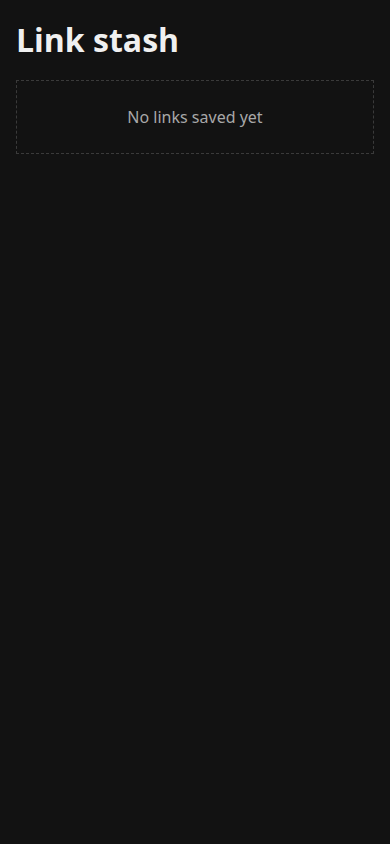
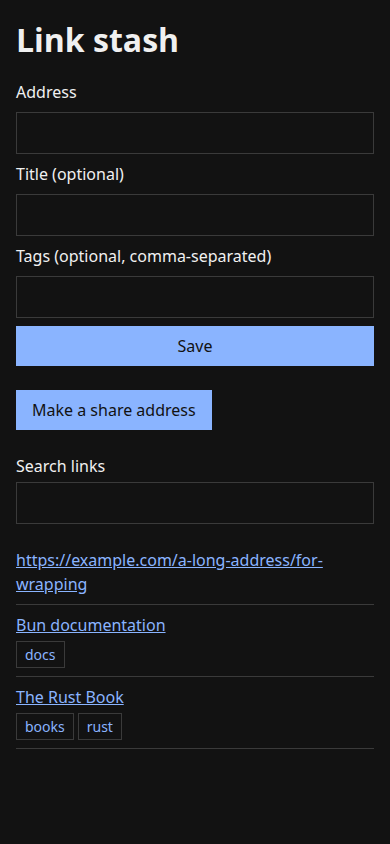
feat: share the list by a read-only link (#6) (#14)
A share control on the owner page makes a random-token path under /s/. The shared page lists links with tags and search and has no form. Methods other than GET under /s/ are refused, an unknown token answers 404, and making a new address replaces the old one.

diff --git a/src/app.ts b/src/app.ts
@@ -1,17 +1,37 @@
 import type {Database} from 'bun:sqlite';
 import {health} from './health';
-import {addLink, findSavedLink, listLinks, type Link} from './storage';
+import {addLink, currentShareToken, findSavedLink, listLinks, makeShareToken, type Link} from './storage';
 import {parseNewLink} from './validate';
 
 const publicDir = new URL('../public/', import.meta.url);
 
 const json = (body: unknown, status = 200): Response => Response.json(body, {status});
 
+const sharePath = (token: string): string => `/s/${token}`;
+
+const queryLinks = (db: Database, params: URLSearchParams): Link[] => {
+  const tag = params.get('tag')?.trim().toLowerCase();
+  const text = params.get('q')?.trim().toLowerCase();
+  return listLinks(db, tag || undefined, text || undefined);
+};
+
+// A share address is a capability: the token must never reach another site, and no method but GET is served.
+async function handleShared(req: Request, db: Database, rest: string[], params: URLSearchParams): Promise<Response> {
+  const [token, ...tail] = rest;
+  if (req.method !== 'GET') return json({error: 'This shared list is read-only'}, 405);
+  if (!token || token !== currentShareToken(db)) return json({error: 'not found'}, 404);
+  const headers = {'referrer-policy': 'no-referrer', 'cache-control': 'no-store'};
+  if (tail.length === 0) return new Response(Bun.file(new URL('shared.html', publicDir)), {headers});
+  if (tail.length === 1 && tail[0] === 'links') return Response.json({links: queryLinks(db, params)}, {headers});
+  return json({error: 'not found'}, 404);
+}
+
 const duplicateMessage = (link: Link): string =>
   `Already saved: ${link.title || link.url}, on ${link.created_at.slice(0, 10)}`;
 
 export async function handle(req: Request, db: Database): Promise<Response> {
-  const {pathname} = new URL(req.url);
+  const {pathname, searchParams} = new URL(req.url);
+  if (pathname.startsWith('/s/')) return handleShared(req, db, pathname.slice(3).split('/'), searchParams);
   if (pathname === '/api/links' && req.method === 'POST') {
     const parsed = parseNewLink(await req.json().catch(() => null));
     if (!parsed.ok) return json({field: 'url', error: parsed.error}, 400);
@@ -19,13 +39,14 @@ export async function handle(req: Request, db: Database): Promise<Response> {
     if (saved) return json({field: 'url', error: duplicateMessage(saved), link: saved}, 409);
     return json(addLink(db, parsed.link.url, parsed.link.title, parsed.link.tags), 201);
   }
+  if (pathname === '/api/share' && req.method === 'POST') return json({path: sharePath(makeShareToken(db))}, 201);
+  if (pathname === '/api/share' && req.method === 'POST') return json({path: sharePath(makeShareToken(db))}, 201);
   if (req.method !== 'GET') return json({error: 'method not allowed'}, 405);
   if (pathname === '/api/health') return json(health());
-  if (pathname === '/api/links') {
-    const params = new URL(req.url).searchParams;
-    const tag = params.get('tag')?.trim().toLowerCase();
-    const text = params.get('q')?.trim().toLowerCase();
-    return json({links: listLinks(db, tag || undefined, text || undefined)});
+  if (pathname === '/api/links') return json({links: queryLinks(db, searchParams)});
+  if (pathname === '/api/share') {
+    const token = currentShareToken(db);
+    return json({path: token ? sharePath(token) : null});
   }
   if (pathname.startsWith('/api/')) return json({error: 'not found'}, 404);
 

diff --git a/src/app.test.ts b/src/app.test.ts
@@ -42,7 +42,7 @@ test('a link saved with no title is listed by its address', async () => {
   const db = openDatabase(':memory:');
   await post(db, JSON.stringify({url: 'https://a.test'}));
   expect(await (await get('/api/links', 'GET', db)).text()).toContain('"title":""');
-  const html = await (await get('/app.js')).text();
+  const html = await (await get('/list.js')).text();
   expect(html).toContain('link.title || link.url');
 });
 
@@ -163,4 +163,60 @@ test('an empty search returns every link', async () => {
   const urls = await searchFixture();
   expect(await urls('?q=')).toHaveLength(3);
   expect(await urls('?q=%20')).toHaveLength(3);
+});
+
+const makeShare = async (db: Database) =>
+  ((await (await handle(new Request('http://test/api/share', {method: 'POST'}), db)).json()) as {path: string}).path;
+
+test('a share token gives the list through GET', async () => {
+  const db = openDatabase(':memory:');
+  await post(db, JSON.stringify({url: 'https://a.test', title: 'Rust Handbook', tags: 'books'}));
+  await post(db, JSON.stringify({url: 'https://b.test', title: 'Cooking'}));
+  const path = await makeShare(db);
+  expect(path).toMatch(/^\/s\/[A-Za-z0-9_-]{43}$/);
+  const page = await get(path, 'GET', db);
+  expect(page.status).toBe(200);
+  const html = await page.text();
+  expect(html).not.toContain('<form');
+  expect(page.headers.get('referrer-policy')).toBe('no-referrer');
+  const all = (await (await get(`${path}/links`, 'GET', db)).json()) as {links: {url: string}[]};
+  expect(all.links.map((l) => l.url)).toEqual(['https://b.test', 'https://a.test']);
+  const found = (await (await get(`${path}/links?q=rust&tag=books`, 'GET', db)).json()) as {links: {url: string}[]};
+  expect(found.links.map((l) => l.url)).toEqual(['https://a.test']);
+  expect((await get(`${path}/other`, 'GET', db)).status).toBe(404);
+});
+
+test('a POST under a share address is refused and stores nothing', async () => {
+  const db = openDatabase(':memory:');
+  const path = await makeShare(db);
+  const body = JSON.stringify({url: 'https://a.test'});
+  for (const method of ['POST', 'PUT', 'PATCH', 'DELETE']) {
+    for (const target of [path, `${path}/links`, `${path}/api/links`]) {
+      const res = await handle(new Request(`http://test${target}`, {method, body}), db);
+      expect(res.status).toBe(405);
+    }
+  }
+  expect(countLinks(db)).toBe(0);
+  expect(await makeShare(db)).not.toBe(path);
+});
+
+test('an unknown share token answers 404', async () => {
+  const db = openDatabase(':memory:');
+  expect((await get('/s/nope', 'GET', db)).status).toBe(404);
+  expect((await get('/s/nope/links', 'GET', db)).status).toBe(404);
+  expect((await get('/s/', 'GET', db)).status).toBe(404);
+  await makeShare(db);
+  expect((await get('/s/nope', 'GET', db)).status).toBe(404);
+});
+
+test('making a new share address stops the old one', async () => {
+  const db = openDatabase(':memory:');
+  expect(await (await get('/api/share', 'GET', db)).json()).toEqual({path: null});
+  const first = await makeShare(db);
+  expect(await (await get('/api/share', 'GET', db)).json()).toEqual({path: first});
+  const second = await makeShare(db);
+  expect(second).not.toBe(first);
+  expect((await get(first, 'GET', db)).status).toBe(404);
+  expect((await get(`${first}/links`, 'GET', db)).status).toBe(404);
+  expect((await get(second, 'GET', db)).status).toBe(200);
 });

diff --git a/public/app.js b/public/app.js
@@ -1,3 +1,5 @@
+import {renderLink} from '/list.js';
+
 const form = document.getElementById('save-form');
 const urlInput = document.getElementById('url');
 const titleInput = document.getElementById('title');
@@ -14,31 +16,8 @@ const searchInput = document.getElementById('search');
 let activeTag = '';
 let activeText = '';
 
-function render(link) {
-  const item = document.createElement('li');
-  const a = document.createElement('a');
-  a.href = link.url;
-  a.textContent = link.title || link.url;
-  a.rel = 'noopener noreferrer';
-  item.append(a);
-  if (link.tags.length > 0) {
-    const tags = document.createElement('span');
-    tags.className = 'tags';
-    for (const tag of link.tags) {
-      const chip = document.createElement('button');
-      chip.type = 'button';
-      chip.className = 'tag';
-      chip.textContent = tag;
-      chip.addEventListener('click', () => load(tag));
-      tags.append(chip);
-    }
-    item.append(tags);
-  }
-  return item;
-}
-
 function show(links) {
-  list.replaceChildren(...links.map(render));
+  list.replaceChildren(...links.map((link) => renderLink(link, load)));
   empty.textContent = activeText
     ? `No links match ${activeText}`
     : activeTag
@@ -68,6 +47,25 @@ searchInput.addEventListener('input', () => {
   load(activeTag);
 });
 clearButton.addEventListener('click', () => load(''));
+
+const shareButton = document.getElementById('share');
+const shareAddress = document.getElementById('share-address');
+const showShare = (path) => {
+  shareAddress.hidden = !path;
+  if (!path) return;
+  const url = new URL(path, location.origin).href;
+  shareAddress.replaceChildren('Read-only address: ', Object.assign(document.createElement('a'), {href: url, textContent: url}));
+  shareButton.textContent = 'Make a new share address';
+};
+showShare((await (await fetch('/api/share')).json()).path);
+shareButton.addEventListener('click', async () => {
+  shareButton.disabled = true;
+  try {
+    showShare((await (await fetch('/api/share', {method: 'POST'})).json()).path);
+  } finally {
+    shareButton.disabled = false;
+  }
+});
 await load('');
 
 form.addEventListener('submit', async (event) => {

diff --git a/public/shared.js b/public/shared.js
@@ -1,0 +1,43 @@
+import {renderLink} from '/list.js';
+
+const base = location.pathname.replace(/\/$/, '');
+const empty = document.getElementById('empty');
+const list = document.getElementById('links');
+const filterEl = document.getElementById('filter');
+const filterLabel = document.getElementById('filter-label');
+const searchInput = document.getElementById('search');
+const emptyText = empty.textContent;
+let activeTag = '';
+let activeText = '';
+let latest = '';
+
+function show(links) {
+  list.replaceChildren(...links.map((link) => renderLink(link, load)));
+  empty.textContent = activeText
+    ? `No links match ${activeText}`
+    : activeTag
+      ? `No links tagged ${activeTag}`
+      : emptyText;
+  empty.hidden = links.length > 0;
+  list.hidden = links.length === 0;
+}
+
+async function load(tag) {
+  activeTag = tag;
+  filterEl.hidden = !tag;
+  filterLabel.textContent = tag ? `Showing links tagged ${tag}` : '';
+  const params = new URLSearchParams();
+  if (tag) params.set('tag', tag);
+  if (activeText) params.set('q', activeText);
+  const query = params.size > 0 ? `?${params}` : '';
+  latest = query;
+  const links = (await (await fetch(`${base}/links${query}`)).json()).links;
+  if (query === latest) show(links);
+}
+
+searchInput.addEventListener('input', () => {
+  activeText = searchInput.value.trim();
+  load(activeTag);
+});
+document.getElementById('clear-filter').addEventListener('click', () => load(''));
+await load('');

diff --git a/src/storage.ts b/src/storage.ts
@@ -13,6 +13,10 @@ const migrations: readonly string[] = [
     tag TEXT NOT NULL,
     PRIMARY KEY (link_id, tag)
   )`,
+  `CREATE TABLE share (
+    id INTEGER PRIMARY KEY CHECK (id = 1),
+    token TEXT NOT NULL
+  )`,
 ];
 
 export function migrate(db: Database): void {
@@ -65,4 +69,14 @@ export function listLinks(db: Database, tag?: string, text?: string): Link[] {
 export function findSavedLink(db: Database, url: string): Link | undefined {
   const key = sameAddressKey(url);
   return listLinks(db).find((l) => sameAddressKey(l.url) === key);
+}
+
+export function currentShareToken(db: Database): string | undefined {
+  return (db.query('SELECT token FROM share WHERE id = 1').get() as {token: string} | null)?.token;
+}
+
+export function makeShareToken(db: Database): string {
+  const token = Buffer.from(crypto.getRandomValues(new Uint8Array(32))).toString('base64url');
+  db.run('INSERT INTO share (id, token) VALUES (1, ?) ON CONFLICT (id) DO UPDATE SET token = excluded.token', [token]);
+  return token;
 }

diff --git a/public/shared.html b/public/shared.html
@@ -1,0 +1,27 @@
+<!doctype html>
+<html lang="en">
+<head>
+  <meta charset="utf-8">
+  <meta name="viewport" content="width=device-width, initial-scale=1">
+  <meta name="robots" content="noindex">
+  <title>Shared links</title>
+  <link rel="stylesheet" href="/tokens.css">
+  <link rel="stylesheet" href="/style.css">
+</head>
+<body>
+  <main>
+    <h1>Shared links</h1>
+    <div class="search">
+      <label for="search">Search links</label>
+      <input id="search" name="q" type="search" autocomplete="off">
+    </div>
+    <p id="filter" class="filter" hidden>
+      <span id="filter-label"></span>
+      <button id="clear-filter" type="button">Clear filter</button>
+    </p>
+    <p id="empty" class="empty">Nothing saved here yet</p>
+    <ul id="links" hidden></ul>
+  </main>
+  <script src="/shared.js" type="module"></script>
+</body>
+</html>

diff --git a/public/list.js b/public/list.js
@@ -1,0 +1,22 @@
+export function renderLink(link, onTag) {
+  const item = document.createElement('li');
+  const a = document.createElement('a');
+  a.href = link.url;
+  a.textContent = link.title || link.url;
+  a.rel = 'noopener noreferrer';
+  item.append(a);
+  if (link.tags.length > 0) {
+    const tags = document.createElement('span');
+    tags.className = 'tags';
+    for (const tag of link.tags) {
+      const chip = document.createElement('button');
+      chip.type = 'button';
+      chip.className = 'tag';
+      chip.textContent = tag;
+      chip.addEventListener('click', () => onTag(tag));
+      tags.append(chip);
+    }
+    item.append(tags);
+  }
+  return item;
+}

diff --git a/src/storage.test.ts b/src/storage.test.ts
@@ -16,7 +16,7 @@ test('migrating twice leaves the schema and data alone', () => {
   db.run("INSERT INTO links (url) VALUES ('https://example.com')");
   migrate(db);
   expect(listLinks(db)).toHaveLength(1);
-  expect((db.query('PRAGMA user_version').get() as {user_version: number}).user_version).toBe(2);
+  expect((db.query('PRAGMA user_version').get() as {user_version: number}).user_version).toBe(3);
 });
 
 test('links are listed newest first', () => {

diff --git a/public/index.html b/public/index.html
@@ -20,6 +20,10 @@
       <input id="tags" name="tags" type="text">
       <button id="save" type="submit">Save</button>
     </form>
+    <section class="share">
+      <button id="share" type="button">Make a share address</button>
+      <p id="share-address" hidden></p>
+    </section>
     <div class="search">
       <label for="search">Search links</label>
       <input id="search" name="q" type="search" autocomplete="off">

diff --git a/public/style.css b/public/style.css
@@ -34,3 +34,5 @@ a { color: var(--color-accent); }
 .filter { display: flex; align-items: center; gap: 0.5rem; }
 .search { display: grid; gap: 0.25rem; margin-bottom: 1rem; }
 .filter[hidden] { display: none; }
+.share { display: grid; gap: 0.5rem; justify-items: start; margin-bottom: 1.5rem; }
+.share p { margin: 0; overflow-wrap: anywhere; }

diff --git a/README.md b/README.md
@@ -16,6 +16,8 @@ merges only when the gates in `.forger/workloop.config.json` and CI pass.
 - `GET /api/links?tag=x` lists only the links with that tag.
 - `GET /api/links?q=text` lists only the links matching the search text, and it combines with `tag`.
 - Saving an address that is already stored is refused with status 409. The reply names the stored link by title and save date. Addresses that differ only in scheme or host case, a trailing slash or a fragment are the same. A refused address returns the field name and a message, and nothing is stored.
+- "Make a share address" on `/` creates a path with a long random token (`/s/<token>`) and shows it. The page there lists the links with their tags and search. It has no form and no control that changes anything. Making another share address stops the old one, and an unknown token answers 404.
+- `POST /api/share` makes a share address and `GET /api/share` returns the current one. Under `/s/`, `GET <share>/links` lists links (with `tag` and `q`), and every other method is refused with 405 and stores nothing.
 
 ## Develop
 
